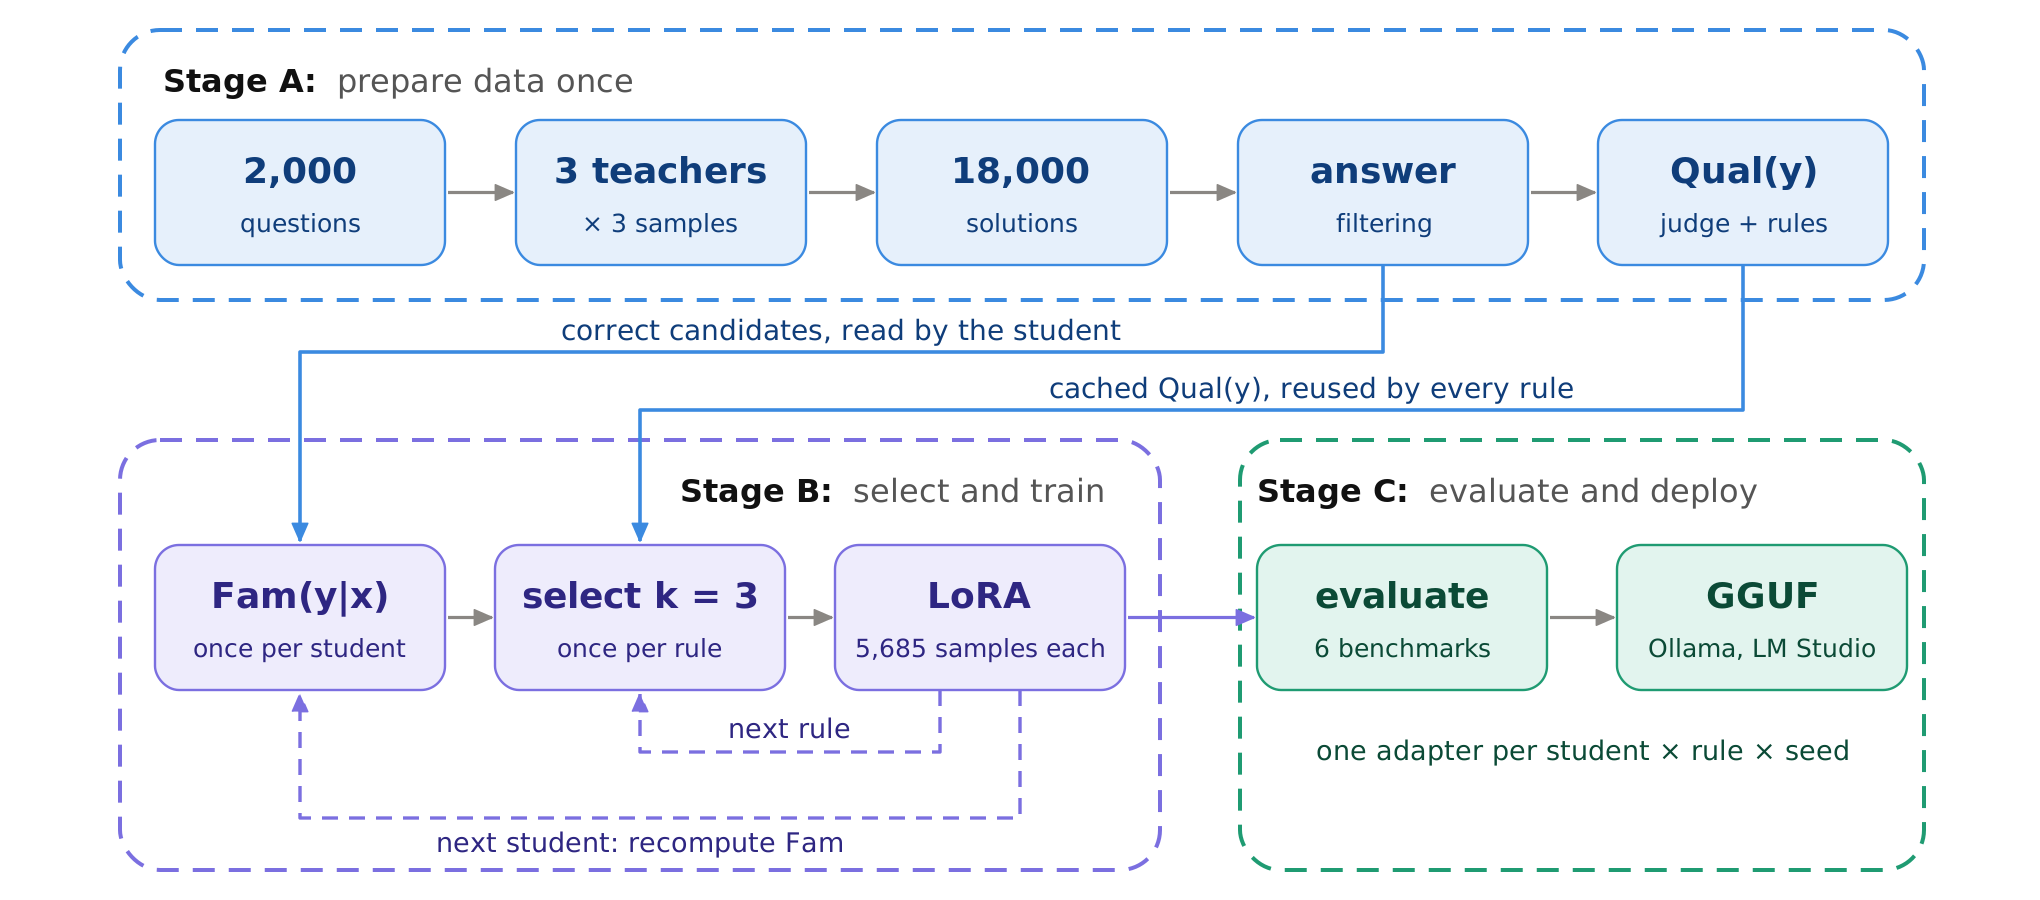
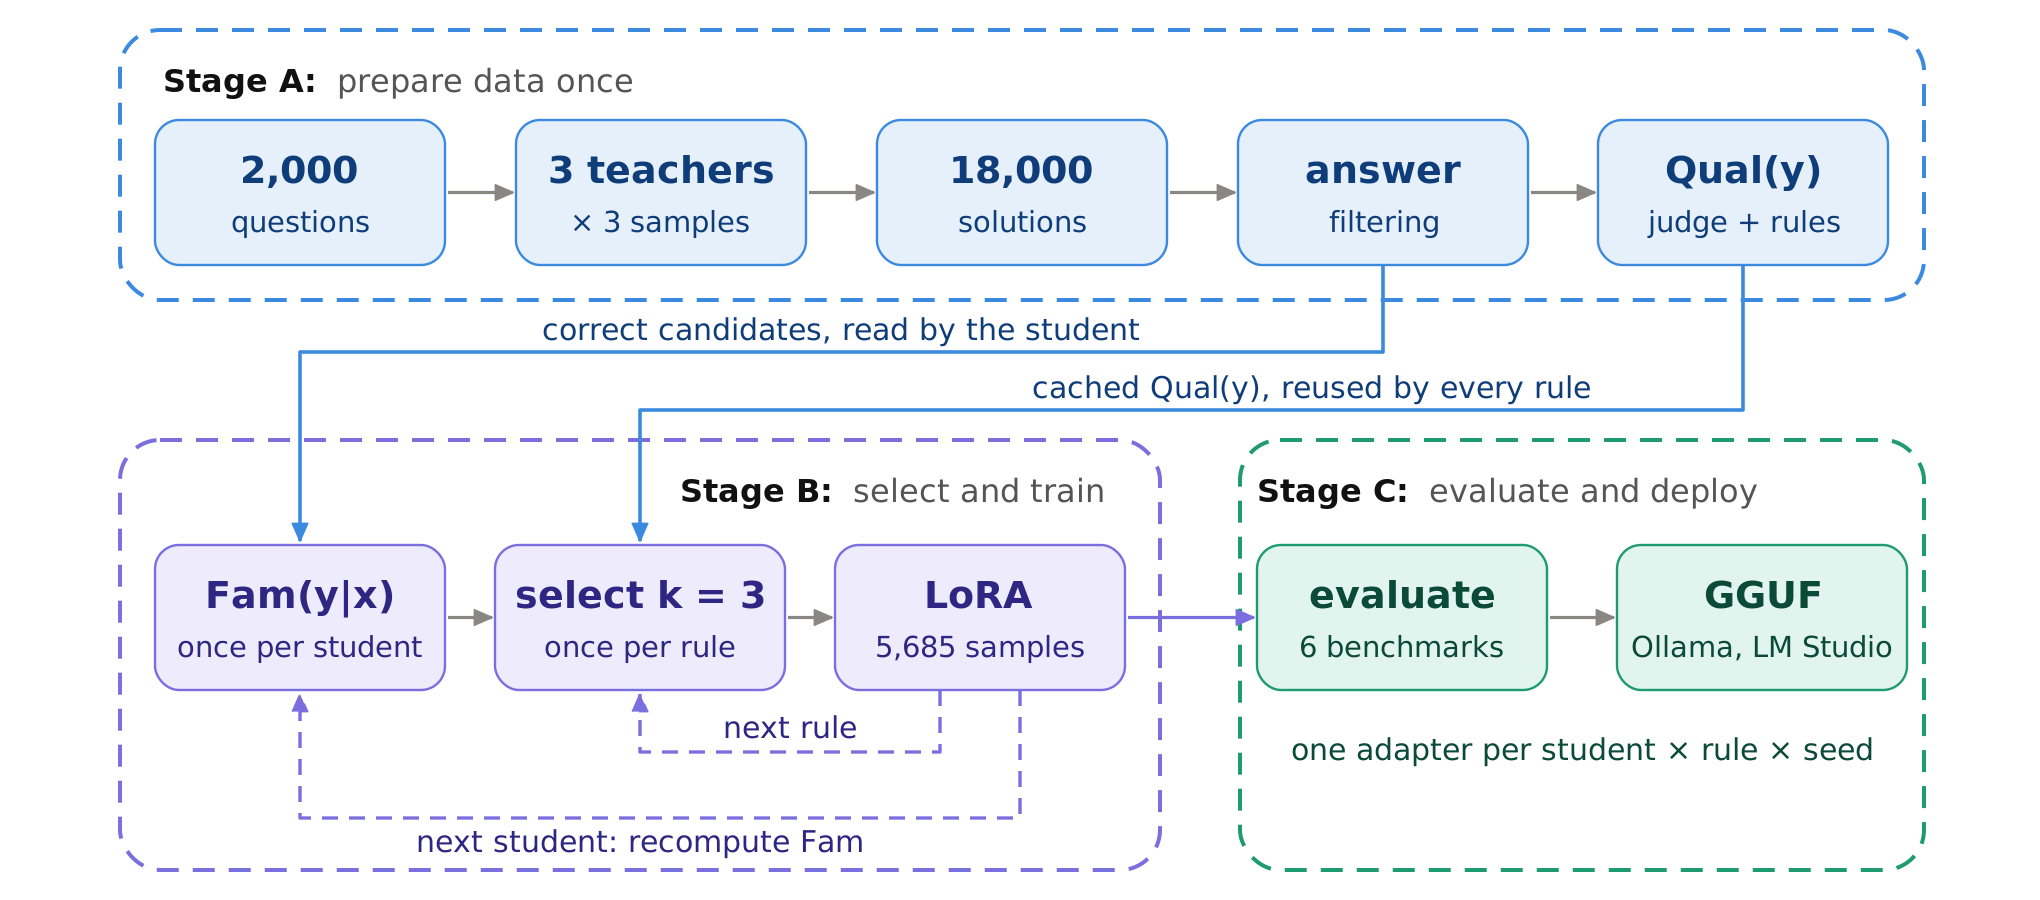
Phản biện vòng 2: chữ Hình 1 lớn hơn, bỏ ghi chú dở trong models.yaml, README dẫn DOI chung

diff --git a/src/tools/make_figures.py b/src/tools/make_figures.py
@@ -123,7 +123,7 @@ def save(svg_text: str, name: str, outdir: Path) -> list[Path]:
 
 # ================================================================ Hình 1: pipeline
 PIPE_BOX_W = 290           # bề rộng mỗi ô của Hình 1; bài kiểm thử đo chữ trong ô theo font thật của máy
-PIPE_L1, PIPE_L2, PIPE_HEAD = 36, 25, 32   # cỡ chữ dòng đầu, dòng hai của ô và tiêu đề Stage
+PIPE_L1, PIPE_L2, PIPE_HEAD = 38, 29, 32   # cỡ chữ dòng đầu, dòng hai của ô và tiêu đề Stage (tăng 15/11: chữ in ra nhỏ)
 
 
 def build_pipeline() -> str:
@@ -184,7 +184,7 @@ def build_pipeline() -> str:
     header(BX[1] + 40, top + 62, "Stage B:", "select and train")   # bên phải hai mũi tên đi vào Fam và bước chọn
     header(cx0 + pad_c, top + 62, "Stage C:", "evaluate and deploy")
     for cx, (a, b) in zip(BX, [("Fam(y|x)", "once per student"), ("select k = 3", "once per rule"),
-                               ("LoRA", "5,685 samples each")]):
+                               ("LoRA", "5,685 samples")]):
         box(cx, BY, PUR_BG, PUR, PUR_TX, a, b)
     for cx, (a, b) in zip(CX, [("evaluate", "6 benchmarks"), ("GGUF", "Ollama, LM Studio")]):
         box(cx, BY, GRN_BG, GRN, GRN_TX, a, b)
@@ -193,22 +193,22 @@ def build_pipeline() -> str:
     arrow(BX[2], CX[0], BY + BH / 2, PUR, "m-pur")       # adapter từ Stage B sang đánh giá; màu theo giai đoạn
                                                          # nguồn, như hai mũi tên xanh dương từ Stage A
     arrow(CX[0], CX[1], BY + BH / 2)
-    s.text((CX[0] + CX[1]) / 2, BY + BH + 70, "one adapter per student × rule × seed", 27, GRN_TX, "middle")
+    s.text((CX[0] + CX[1]) / 2, BY + BH + 70, "one adapter per student × rule × seed", 30, GRN_TX, "middle")
 
     # A -> B: hai nhánh, nhánh vào Fam đi cao hơn để hai đường không cắt nhau
     ya_bot, y1, y2 = AY + BH, 352, 410
     s.poly([(AX[3], ya_bot), (AX[3], y1), (BX[0], y1), (BX[0], BY - 4)], BLUE, "m-blue", width=3.6)
-    s.text((BX[0] + AX[3]) / 2, y1 - 12, "correct candidates, read by the student", 28, BLUE_TX, "middle")
+    s.text((BX[0] + AX[3]) / 2, y1 - 12, "correct candidates, read by the student", 30, BLUE_TX, "middle")
     s.poly([(AX[4], ya_bot), (AX[4], y2), (BX[1], y2), (BX[1], BY - 4)], BLUE, "m-blue", width=3.6)
-    s.text((BX[1] + AX[4]) / 2 + 120, y2 - 12, "cached Qual(y), reused by every rule", 28, BLUE_TX, "middle")
+    s.text((BX[1] + AX[4]) / 2 + 120, y2 - 12, "cached Qual(y), reused by every rule", 30, BLUE_TX, "middle")
 
     # vòng lặp trong Stage B: vòng trong về bước chọn (đổi phương án), vòng ngoài về Fam (đổi mô hình học)
     yb_bot = BY + BH
     ya, yb = yb_bot + 62, yb_bot + 128
     s.poly([(BX[2] - 40, yb_bot), (BX[2] - 40, ya), (BX[1], ya), (BX[1], yb_bot + 4)], PUR, "m-pur", True, 3.4)
-    s.text((BX[1] + BX[2] - 40) / 2, ya - 14, "next rule", 27, PUR_TX, "middle")
+    s.text((BX[1] + BX[2] - 40) / 2, ya - 14, "next rule", 30, PUR_TX, "middle")
     s.poly([(BX[2] + 40, yb_bot), (BX[2] + 40, yb), (BX[0], yb), (BX[0], yb_bot + 4)], PUR, "m-pur", True, 3.4)
-    s.text((BX[0] + BX[2]) / 2, yb + 34, "next student: recompute Fam", 27, PUR_TX, "middle")
+    s.text((BX[0] + BX[2]) / 2, yb + 34, "next student: recompute Fam", 30, PUR_TX, "middle")
     return s.render()
 
 
@@ -544,6 +544,7 @@ RESULT_SETS = {
     "fit_quality.k3": ("QD-RSR", "QD-RSR", "surprise"),
     "teacher_qwen_first.k3": ("Prefer Qwen", "Ưu tiên Qwen-72B", "teacher"),
     "teacher_qwen_last.k3": ("Avoid Qwen", "Tránh Qwen-72B", "teacher"),
+    "random_at_grape.k3": ("Random@GRAPE", "Random@GRAPE", "teacher"),   # thêm 15/11 theo phản biện vòng 2
 }
 # Tập in đậm là phương án đề xuất: hai bản FQ-Select (trước 20/10 là fit_quality.k3 của hướng QD-RSR cũ).
 OURS, BASE = ("fq_select.k3", "fq_veto_judge.k3"), "correct_only.k3"
@@ -748,8 +749,15 @@ def build_teacher_share(rows: Sequence[Mapping], lang: str = "en") -> str:
         px, py = X(r["share"]), Y(r["acc"])
         if abs(cx - px) > 26 or abs(cy - 10 - py) > 12:
             s.line(px, py, cx + (-6 if anc == "start" else 6), cy - 10, LEAD_C, 2)
+    drawn: list[tuple[float, float]] = []
     for r in pts:
-        dot(s, X(r["share"]), Y(r["acc"]), GROUP_COLOR[r["group"]], r["seeds"] >= 2)
+        px, py = X(r["share"]), Y(r["acc"])
+        if any(abs(px - ox) < 8 and abs(py - oy) < 8 for ox, oy in drawn):   # trùng điểm (Random@GRAPE và GRAPE):
+            s.add(f'<circle cx="{px:.1f}" cy="{py:.1f}" r="22" fill="none" '      # vẽ vòng ngoài để thấy cả hai
+                  f'stroke="{GROUP_COLOR[r["group"]]}" stroke-width="5"/>')
+        else:
+            dot(s, px, py, GROUP_COLOR[r["group"]], r["seeds"] >= 2)
+        drawn.append((px, py))
     for r, cx, cy, anc in placed:                        # nền trắng sau chữ để đường gạch Correct-Only không cắt nhãn
         w = text_width(r[lang], FS, r["tag"] in OURS)
         s.add(f'<rect x="{(cx if anc == "start" else cx - w) - 3:.1f}" y="{cy - 25:.1f}" width="{w + 6:.1f}" '

diff --git a/tests/tools/test_make_figures.py b/tests/tools/test_make_figures.py
@@ -33,7 +33,7 @@ def test_pipeline_text_fits_boxes_and_frames():
                 "evaluate", "GGUF"):
         assert mf.text_width(txt, mf.PIPE_L1, True) < w, txt
     for txt in ("questions", "× 3 samples", "solutions", "filtering", "judge + rules", "once per student",
-                "once per rule", "5,685 samples each", "6 benchmarks", "Ollama, LM Studio"):
+                "once per rule", "5,685 samples", "6 benchmarks", "Ollama, LM Studio"):
         assert mf.text_width(txt, mf.PIPE_L2) < w, txt
     head = lambda b, r: mf.text_width(b, mf.PIPE_HEAD, True) + 20 + mf.text_width(r, mf.PIPE_HEAD)
     assert head("Stage B:", "select and train") < 1160 - 25 - (35 + mf.PIPE_BOX_W * 1.5 + 120 + 40 + (
